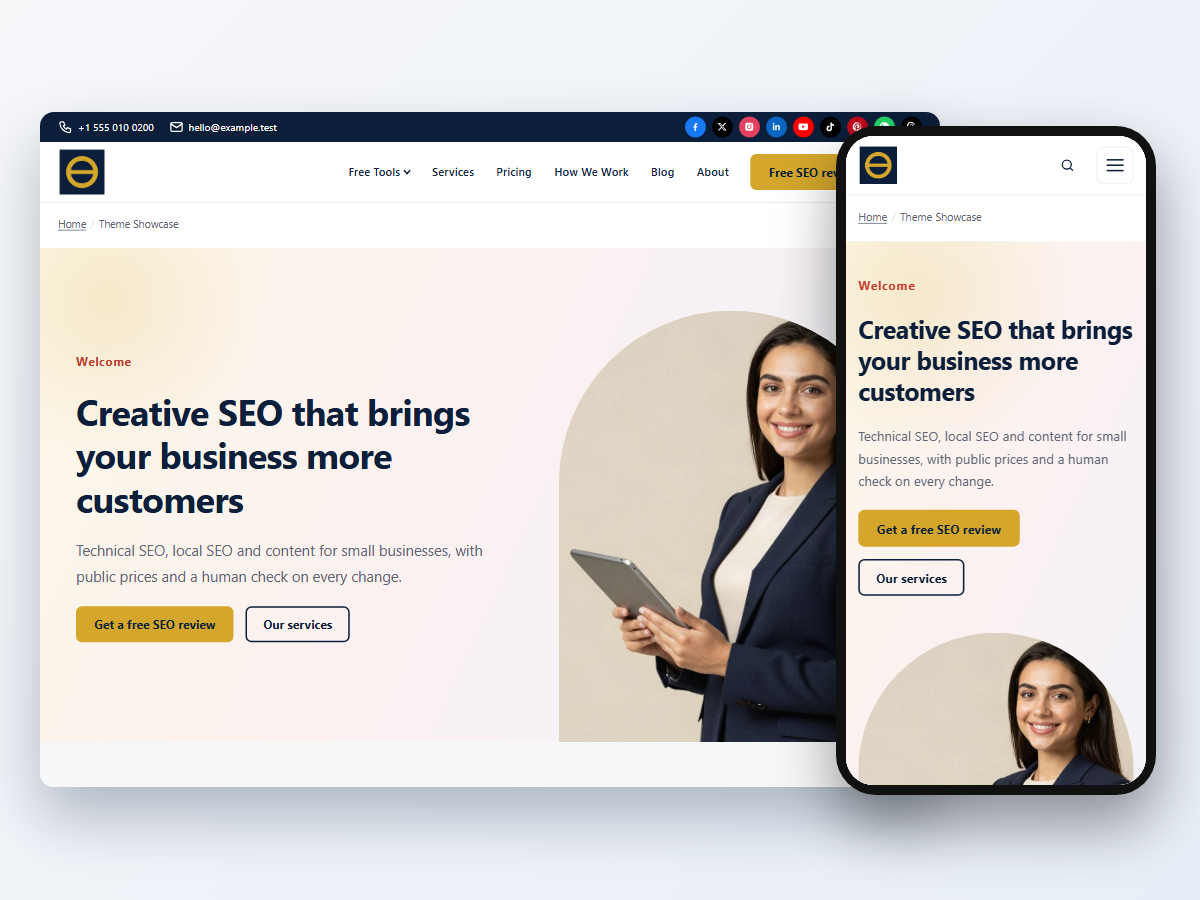
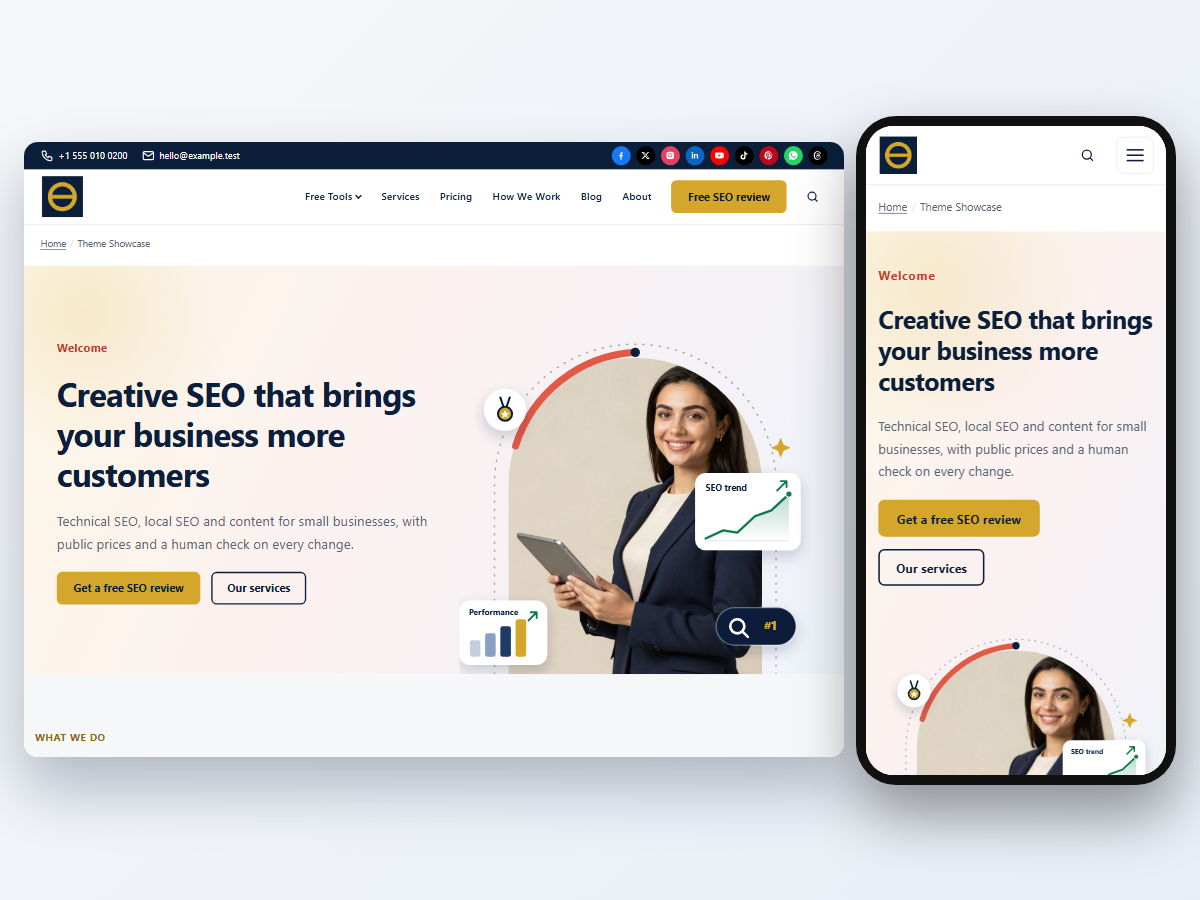
Theme 1.3.2 / child 1.2.2: photo hero keeps its SEO cards; SEMRS Site 1.1.1

diff --git a/semrs-site/theme/semrs/style.css b/semrs-site/theme/semrs/style.css
@@ -4,7 +4,7 @@ Theme URI:         https://semrs.com/
 Author:            SEMRS
 Author URI:        https://semrs.com/
 Description:       Lightweight, SEO-first theme for businesses, agencies and blogs. Drag-and-drop header and footer builder with top bar, sticky and transparent header, header search and a mobile menu panel. Seven section patterns, sidebar layouts, blog grid or list, reading progress bar, author box, related posts and per-page header, footer and sidebar options. No jQuery: one stylesheet and one small script.
-Version:           1.3.1
+Version:           1.3.2
 Requires at least: 6.5
 Tested up to:      7.1
 Requires PHP:      7.4
@@ -532,8 +532,14 @@ label { font-weight: 600; color: var(--sp-primary); }
 .semrs-hero-cover .semrs-lead { padding-inline-end: 0; }
 .semrs-hero-cover__img { margin: 0; }
 .semrs-hero-cover__img img { display: block; width: 100%; height: auto; }
-.semrs-hero-cover__photo { max-width: 460px; margin: 2rem 0 0 auto; }
-.semrs-hero-cover__photo img { aspect-ratio: 4 / 5; object-fit: cover; object-position: center top; border-radius: 999px 999px 0 0; background: #efe6dc; }
+/* Photo in an arch with SEO cards around it (overlay SVG never covers the face or tablet). */
+.semrs-hero-cover__stage { position: relative; width: 100%; max-width: 600px; aspect-ratio: 1 / 1; margin: 1.5rem 0 0 auto; }
+.semrs-hero-cover__stage > .wp-block-image { margin: 0; }
+.semrs-hero-cover__photo { position: absolute; left: 14%; right: 14%; top: 10%; bottom: 0; overflow: hidden; border-radius: 999px 999px 0 0; background: #efe6dc; }
+.semrs-hero-cover__photo img { display: block; width: 100%; height: 100%; object-fit: cover; object-position: center top; }
+.semrs-hero-cover__overlay { position: absolute; inset: 0; pointer-events: none; z-index: 1; }
+.semrs-hero-cover__overlay img { display: block; width: 100%; height: 100%; }
+@media (max-width: 781px) { .semrs-hero-cover__stage { margin: 0 auto; max-width: 440px; } }
 @media (max-width: 781px) { .semrs-hero-cover__text { padding-bottom: 1rem; } .semrs-hero-cover__img { max-width: 420px; margin-inline: auto; } }
 html[data-theme="dark"] .semrs-hero-cover { background: linear-gradient(115deg, #13233d 0%, #172743 50%, #0f1d33 100%); }
 html[data-theme="dark"] .semrs-hero-cover .semrs-eyebrow { color: #f08a7e; }

diff --git a/semrs-site/preview/shots/theme-shot.html b/semrs-site/preview/shots/theme-shot.html
@@ -1,8 +1,8 @@
 <!doctype html><html><head><meta charset="utf-8"><style>
 html,body{margin:0;width:1200px;height:900px;overflow:hidden;background:linear-gradient(135deg,#f6f7f9,#e8eef7)}
-.desk{position:absolute;left:40px;top:112px;width:900px;height:675px;border-radius:14px;overflow:hidden;box-shadow:0 30px 60px rgba(11,31,58,.28);background:#fff}
-.desk iframe{border:0;width:1200px;height:900px;transform:scale(.75);transform-origin:0 0;display:block}
-.phone{position:absolute;right:44px;top:126px;width:300px;height:649px;border-radius:40px;padding:10px;background:#111;box-shadow:0 30px 60px rgba(0,0,0,.4);overflow:hidden}
+.desk{position:absolute;left:24px;top:142px;width:820px;height:615px;border-radius:14px;overflow:hidden;box-shadow:0 30px 60px rgba(11,31,58,.28);background:#fff}
+.desk iframe{border:0;width:1200px;height:900px;transform:scale(.68334);transform-origin:0 0;display:block}
+.phone{position:absolute;right:24px;top:116px;width:300px;height:649px;border-radius:40px;padding:10px;background:#111;box-shadow:0 30px 60px rgba(0,0,0,.4);overflow:hidden}
 .phone iframe{border:0;width:390px;height:844px;transform:scale(.769);transform-origin:0 0;border-radius:36px;background:#fff;display:block}
 </style></head><body>
 <div class="desk"><iframe id="d" scrolling="no"></iframe></div><div class="phone"><iframe id="m" scrolling="no"></iframe></div>

diff --git a/semrs-site/theme/semrs-child-seo/style.css b/semrs-site/theme/semrs-child-seo/style.css
@@ -5,7 +5,7 @@ Description:  SEMRS brand layer for the SEMRS theme: navy/gold brand tokens, sti
 Author:       SEMRS
 Author URI:   https://semrs.com/
 Template:     semrs
-Version:      1.2.1
+Version:      1.2.2
 Requires at least: 6.5
 Tested up to: 7.1
 Requires PHP: 7.4

diff --git a/semrs-site/theme/semrs/patterns/hero-cover.php b/semrs-site/theme/semrs/patterns/hero-cover.php
@@ -38,9 +38,15 @@ defined( 'ABSPATH' ) || exit;
 <!-- /wp:column -->
 
 <!-- wp:column {"verticalAlignment":"bottom","width":"48%","className":"semrs-hero-cover__media"} -->
-<div class="wp-block-column is-vertically-aligned-bottom semrs-hero-cover__media" style="flex-basis:48%"><!-- wp:image {"sizeSlug":"full","linkDestination":"none","className":"semrs-hero-cover__img semrs-hero-cover__photo"} -->
-<figure class="wp-block-image size-full semrs-hero-cover__img semrs-hero-cover__photo"><img src="<?php echo esc_url( get_template_directory_uri() . '/assets/images/hero-photo.jpg' ); ?>" alt="SEO specialist smiling and holding a tablet" width="800" height="1000" fetchpriority="high"/></figure>
+<div class="wp-block-column is-vertically-aligned-bottom semrs-hero-cover__media" style="flex-basis:48%"><!-- wp:group {"className":"semrs-hero-cover__stage","layout":{"type":"default"}} -->
+<div class="wp-block-group semrs-hero-cover__stage"><!-- wp:image {"sizeSlug":"full","linkDestination":"none","className":"semrs-hero-cover__photo"} -->
+<figure class="wp-block-image size-full semrs-hero-cover__photo"><img src="<?php echo esc_url( get_template_directory_uri() . '/assets/images/hero-photo.jpg' ); ?>" alt="SEO specialist smiling and holding a tablet" width="800" height="1000" fetchpriority="high"/></figure>
+<!-- /wp:image -->
+
+<!-- wp:image {"sizeSlug":"full","linkDestination":"none","className":"semrs-hero-cover__overlay"} -->
+<figure class="wp-block-image size-full semrs-hero-cover__overlay"><img src="<?php echo esc_url( get_template_directory_uri() . '/assets/images/hero-cover-overlay.svg' ); ?>" alt="" width="600" height="600"/></figure>
 <!-- /wp:image --></div>
+<!-- /wp:group --></div>
 <!-- /wp:column --></div>
 <!-- /wp:columns --></div>
 <!-- /wp:group -->

diff --git a/semrs-site/plugins/semrs-site/semrs-site.php b/semrs-site/plugins/semrs-site/semrs-site.php
@@ -2,7 +2,7 @@
 /**
  * Plugin Name:       SEMRS Site (semrs.com only)
  * Description:       semrs.com-only additions that are never given to clients: the SEMRS Store (products, collection and product pages, pricing) and SEMRS Pro sales page installer, the Keyword Ideas Generator tool, and the "Hero with photo and keyword tool" pattern and its photo. Needs SEMRS Tools for the tool.
- * Version:           1.1.0
+ * Version:           1.1.1
  * Requires at least: 6.5
  * Requires PHP:      7.4
  * Author:            SEMRS
@@ -14,7 +14,7 @@
 
 defined( 'ABSPATH' ) || exit;
 
-define( 'SEMRS_SITE_VERSION', '1.1.0' );
+define( 'SEMRS_SITE_VERSION', '1.1.1' );
 define( 'SEMRS_SITE_DIR', plugin_dir_path( __FILE__ ) );
 define( 'SEMRS_SITE_URL', plugin_dir_url( __FILE__ ) );
 

diff --git a/semrs-site/theme/semrs/functions.php b/semrs-site/theme/semrs/functions.php
@@ -14,7 +14,7 @@
 
 defined( 'ABSPATH' ) || exit;
 
-define( 'SEMRS_THEME_VERSION', '1.3.1' );
+define( 'SEMRS_THEME_VERSION', '1.3.2' );
 define( 'SEMRS_THEME_DIR', get_template_directory() );
 define( 'SEMRS_THEME_URI', get_template_directory_uri() );
 

diff --git a/semrs-site/theme/semrs-child-seo/functions.php b/semrs-site/theme/semrs-child-seo/functions.php
@@ -7,7 +7,7 @@
 
 defined( 'ABSPATH' ) || exit;
 
-define( 'SEMRS_CHILD_VERSION', '1.2.1' );
+define( 'SEMRS_CHILD_VERSION', '1.2.2' );
 
 /**
  * Read a child setting (Customizer → SEMRS Theme → Contact & conversion).
